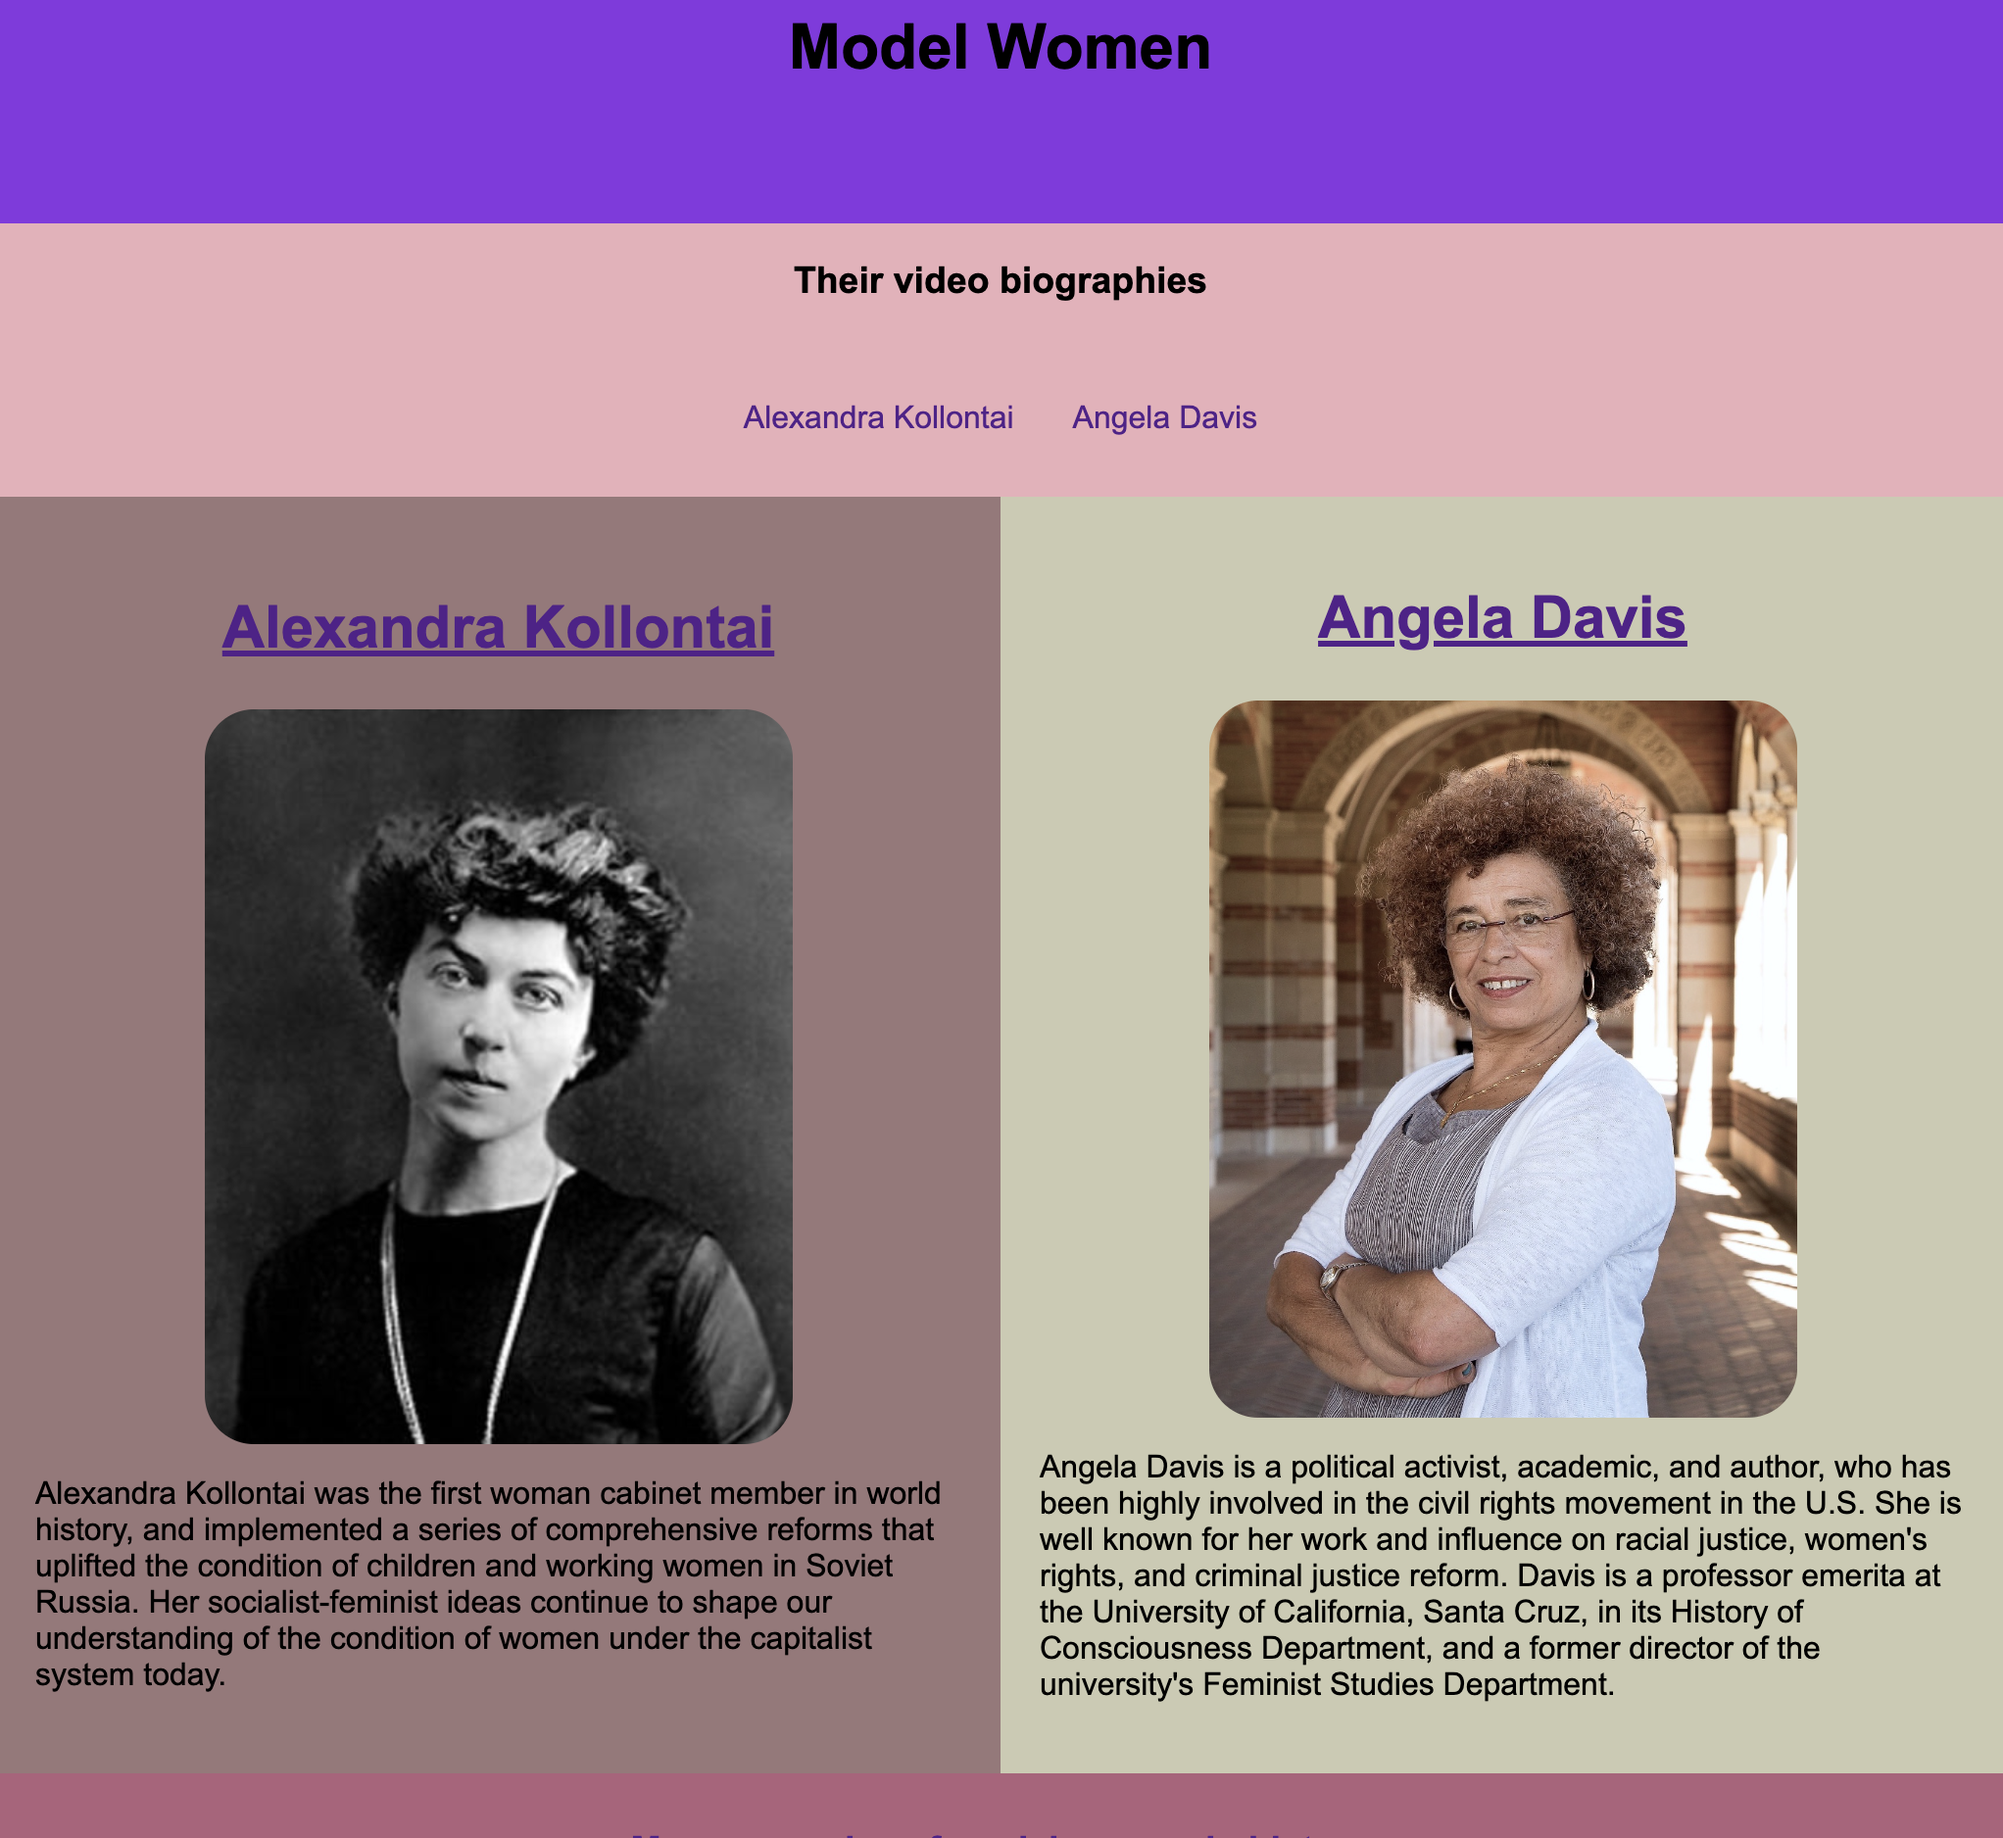
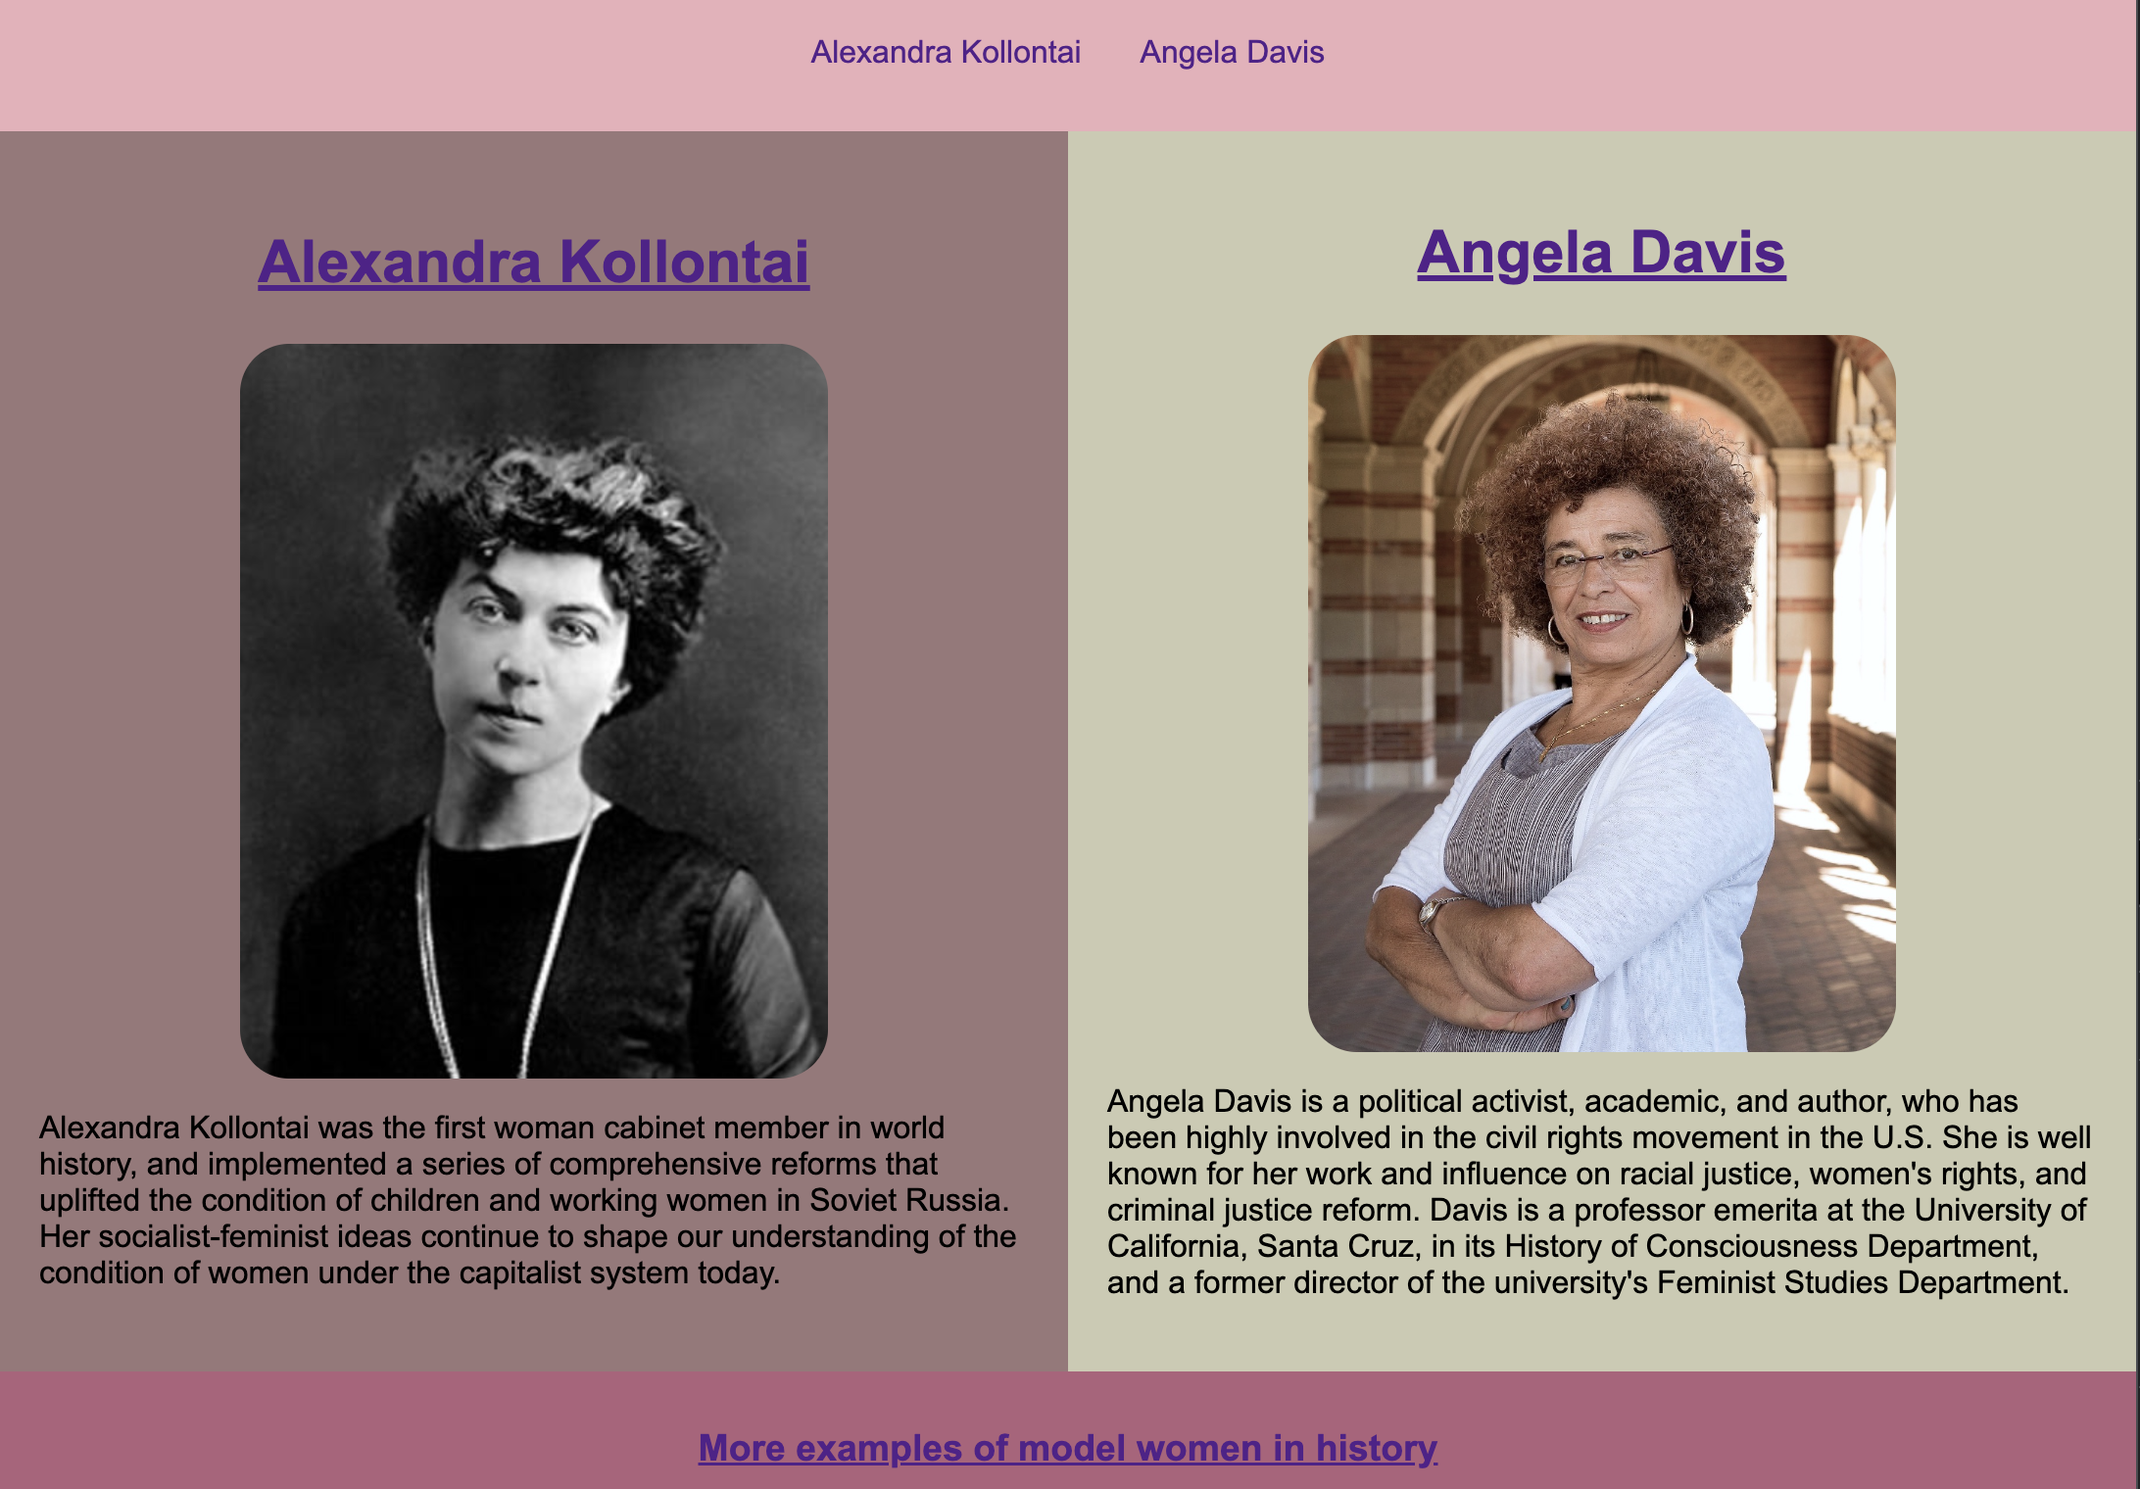
fixed responsive for desktop

diff --git a/src/index.css b/src/index.css
@@ -5,7 +5,8 @@ body{
 
 .hero{
     background-color: #2d151d;
-    height: 100vh;
+    width: 100%;
+    height: 80vw;
     color: white;
     font-size: 40px;
 }
@@ -13,9 +14,12 @@ body{
 footer{
     background-color: black;
     color: white;
+    justify-content: center;
     text-align: center;
-    padding: 80px;
-    width: 100vw;
+    padding-top: 1rem;
+    width: 100%;
+    height: auto;
+    padding-bottom: 1rem;
 }
 
 nav{
@@ -26,8 +30,8 @@ nav{
 ul{
     display: flex;
     list-style-type: none;
-    /* width: 500px; */
-    width: 31.2 rem;
+    width: 500px;
+    /* width:32rem; */
     justify-content: space-around;
     font-size: 30px;
 }
@@ -50,6 +54,7 @@ p{
     margin: 0;
     font-size:30px;
     font-weight: 300;
+    margin-bottom: 1.5rem;
 }
 
 .subtext{
@@ -59,7 +64,8 @@ p{
 
 .hero-area{
     display: flex;
-    height: 95%;
+    width: 100%;
+    height: 90%;
     justify-content: space-between;
     align-items: center;
 }
@@ -103,27 +109,29 @@ p{
     margin: 20px;
 }
 
-.sub-section{
+.sub-section-one{
     background-color: white;
+    width: 100%;
     display: flex;
     flex-direction: row;
     justify-content: space-around;
-    padding: 80px; 
+    margin-top: 1rem;
+    margin-bottom: 1rem;
 
 }
 
-.sub-section-alternative{
+.sub-section-two{
     display: flex;
     flex-direction: column;
     text-align: center;
-    padding: 30px;
     background-color: #64313d;
-    height: 100vw;
-    width: 95vw;
+    height: auto;
+    width: 100%;
+    padding-bottom: 1rem;
 }
 
 .headshot{
-    width: 18rem;
+    width: 80%;
     border-radius: 6rem;
     margin-left: 50px;
 }
@@ -145,79 +153,41 @@ p{
 }
 
 .project-card{
-    /* width: 300px; */
-    /* height: 540px; */
-    width: 90vw;
-    height: 70vw;
+    width: 300px;
+     height: 540px;
+    /* width: 100%;
+    height: 100%; */
     border: 1px solid black;
     box-shadow: 5px 5px 20px rgb(197, 195, 195);
-    margin: 10px;
+    margin: 15px;
     background-color: white;
     display: flex;
     flex-direction: column;
     justify-content: space-evenly;
+    align-items: center;
 }
 
 .project-container{
     display: flex;
+    flex-direction: row;
     justify-content: space-around; 
-}
-
-@media only screen and (max-width: 800px){
-    .project-container .headshot-container{
-        display: flex;
-        flex-wrap: wrap;
-       
-    }
-
-    .sub-section{
-        display: flex;
-        flex-direction: column;
-        justify-content: space-evenly;
-        align-items: center;
-        width: 100vw;
-        padding: 10px;
-        margin-right: 5px;
-    }
-
-    .information p{
-        font-size: 16px;
-        max-width: 70%;
-    }
-
-    .hero-text{
-        margin-top: 15rem;
-        margin-bottom: 5rem;
-    }
-
-    footer{
-        display: flex;
-        justify-content: center;
-        align-items: center;
-        text-align: center;
-        width: 100vw;
-    }
-
-    .about-me-container{
-        display: flex;
-        flex-direction: column;
-        justify-content: space-evenly;
-    }
-    
+    align-items: center;
+    width: 100%;
+    margin-bottom: 1rem;;
 }
 
 .project-image{
     display: flex;
     justify-content: center;
-    align-items: center;
-    width: 250px;
-    height: 250px;
+    align-items: stretch;
+    
 }
 
 .image{
-    border-radius: 50%;
-    width: 100%;
-    height: 100%;
+    border-radius: 45%;
+    width: 90%;
+    height: 80%;
+    align-items: center;
 }
 
 hr{
@@ -244,6 +214,93 @@ a{
 }
 
 @media only screen and (max-width: 800px){
+
+    .hero{
+        height: auto;
+        width: 90%;
+    }
+    .project-container{
+        display: flex;
+        flex-wrap: wrap;
+    }
+
+    .sub-section-one{
+        display: flex;
+        flex-direction: column;
+        justify-content: space-evenly;
+        align-items: center;
+        width: 90%;
+        padding: 15px;
+        margin-right: 5px;
+    }
+
+
+    .information p{
+        font-size: 16px;
+        width: 70%;
+        margin-bottom: 2rem;
+        margin-left: 2rem;
+    }
+
+    .information h2{
+        margin-left: 2rem;
+    }
+
+    .hero-text{
+        margin-top: 15rem;
+        margin-bottom: 5rem;
+        width: 110%;
+    }
+
+    footer{
+        display: flex;
+        justify-content: center;
+        align-items: center;
+        text-align: center;
+        
+    }
+
+    .about-me-container{
+        display: flex;
+        flex-direction:column-reverse;
+        justify-content: space-evenly;
+        align-items: center;
+        margin-top: 2rem;
+    }
+
+    .hero-area{
+        flex-direction: column;
+        width: 100%;
+    }
+
+    #projects{
+        display: block;
+        height: auto;
+    }
+        .project-container{
+            display: flex;
+            flex-direction: column;
+            justify-content:space-evenly;
+            height: auto;
+        }
+
+    .project-card{
+        display: block;
+        width: 90%;
+        height: 90%;
+       
+    }
+
+    .image{
+        margin-top: 0.5rem;
+        width: 70%;
+        height: 60%;
+    }
+    
+}
+
+
+@media only screen and (max-width: 800px){
     .hamburguer{
         display: block;
         border: 0;
@@ -268,6 +325,7 @@ a{
         display: flex;
         flex-direction: column-reverse;
         background-color: #64313d;
+        width: 100%;
     }
 
     /* .logo{

diff --git a/index.html b/index.html
@@ -44,7 +44,7 @@
         </div>
        
     </section>
-    <section class="sub-section" id="about-me">
+    <section class="sub-section-one" id="about-me">
       <div class="about-me-container"> 
        
             <div class="information">
@@ -58,7 +58,7 @@
         </div>
         
     </section>
-    <section class="sub-section-alternative" id="projects">
+    <section class="sub-section-two" id="projects">
         <div>
             <h2>Projects</h2>
                 <div class="project-container">
@@ -71,11 +71,11 @@
                     </div>
                     <div class="project-card">
                         <div class="project-image"><img class="image" src="/src/img/wheel-of-doom.png" alt="Project Two Image"/></div>
-                            <h3>Project Two</h3>
-                            <p class="subtext">This was a group project. We did a wheel of doom inspired in Frankenstein. It was an enriching experience reagarding technical practice and collaborative learning. It was fun, too.</p>
-                            <hr/>
-                            <p class="subtext"><a class="project-link" href="https://github.com/sablinali">View here</a></p>
-                    </div>
+                                <h3>Project Two</h3>
+                                <p class="subtext">This was a group project. We did a wheel of doom inspired by Frankenstein. It was an enriching experience reagarding technical practice and collaborative learning. It was fun, too.</p>
+                                <hr/>
+                             <p class="subtext"><a class="project-link" href="https://github.com/sablinali">View here</a></p>
+                        </div>
                         <div class="project-card">
                             <div class="project-image"><img class="image" src="/src/img/js-sync-and-async.png" alt="Project Three Image"/></div>
                             <h3>Project Three</h3>
